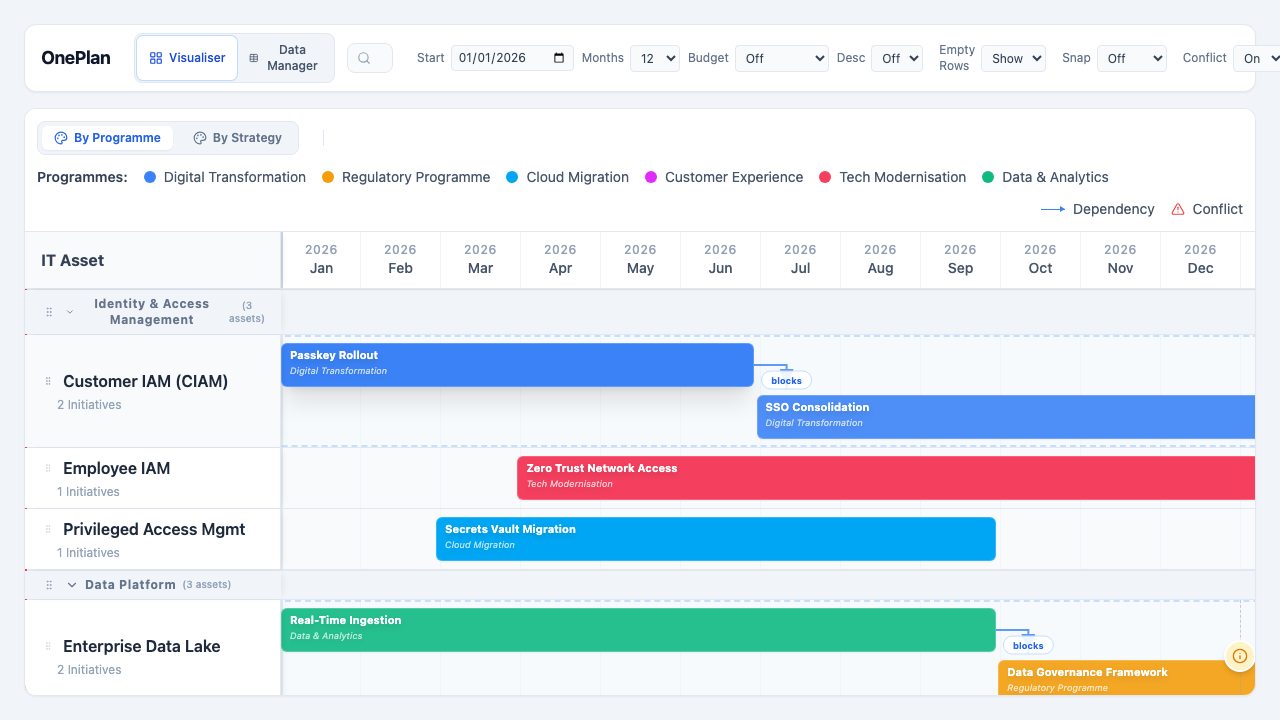
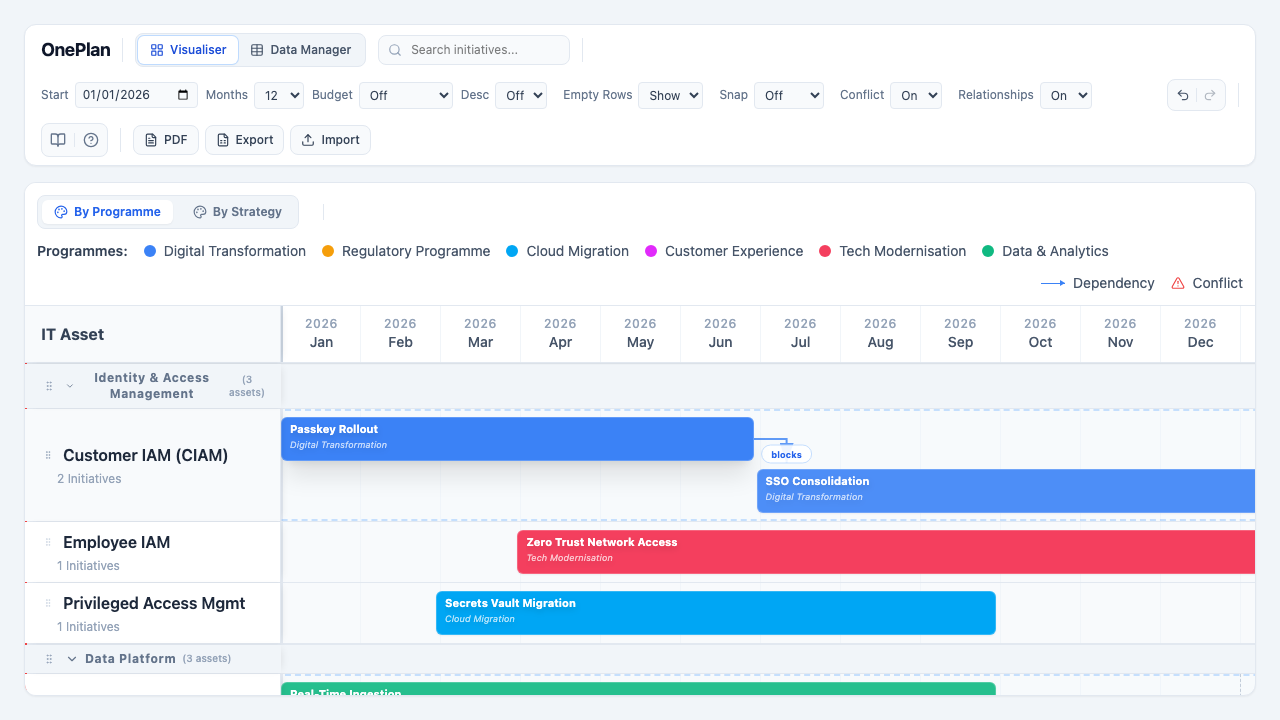
feat: add optional relationship visibility and wrap visualiser menu

diff --git a/src/components/Timeline.tsx b/src/components/Timeline.tsx
@@ -384,7 +384,7 @@ export function Timeline({ assets, initiatives, milestones, programmes, strategi
         e.preventDefault();
 
         // If we moved vertically more than 30px, switch to drawing dependency
-        if (!drawingDependency && Math.abs(deltaY) > 30) {
+        if (settings.showRelationships !== 'off' && !drawingDependency && Math.abs(deltaY) > 30) {
           const sourcePos = initiativePositions.get(moving.id);
           if (sourcePos && containerRef.current) {
             const containerRect = containerRef.current.getBoundingClientRect();
@@ -867,12 +867,14 @@ export function Timeline({ assets, initiatives, milestones, programmes, strategi
         </div>
 
         <div className="ml-auto flex items-center gap-4">
-          <div className="flex items-center gap-2 whitespace-nowrap">
-            <div className="w-6 h-px bg-blue-500 relative">
-              <div className="absolute right-0 top-1/2 -translate-y-1/2 border-y-[3px] border-y-transparent border-l-[5px] border-l-blue-500" />
+          {settings.showRelationships !== 'off' && (
+            <div className="flex items-center gap-2 whitespace-nowrap">
+              <div className="w-6 h-px bg-blue-500 relative">
+                <div className="absolute right-0 top-1/2 -translate-y-1/2 border-y-[3px] border-y-transparent border-l-[5px] border-l-blue-500" />
+              </div>
+              <span className="text-slate-600">Dependency</span>
             </div>
-            <span className="text-slate-600">Dependency</span>
-          </div>
+          )}
           <div className="flex items-center gap-2 whitespace-nowrap">
             <AlertTriangle size={14} className="text-red-500" />
             <span className="text-slate-600">Conflict</span>
@@ -924,7 +926,7 @@ export function Timeline({ assets, initiatives, milestones, programmes, strategi
                   <polygon points="0 0, 10 3.5, 0 7" fill="#3b82f6" />
                 </marker>
               </defs>
-              {dependencies.map(dep => {
+              {settings.showRelationships !== 'off' && dependencies.map(dep => {
                 const source = initiativePositions.get(dep.sourceId);
                 const target = initiativePositions.get(dep.targetId);
                 if (!source || !target) return null;
@@ -1046,7 +1048,7 @@ export function Timeline({ assets, initiatives, milestones, programmes, strategi
               })}
 
               {/* Live drawing arrow */}
-              {drawingDependency && (
+              {settings.showRelationships !== 'off' && drawingDependency && (
                 <path
                   d={`M ${drawingDependency.startX} ${drawingDependency.startY} L ${drawingDependency.currentX} ${drawingDependency.currentY} `}
                   stroke="#3b82f6"

diff --git a/e2e/relationship-visibility.spec.ts b/e2e/relationship-visibility.spec.ts
@@ -1,0 +1,55 @@
+import { test, expect } from '@playwright/test';
+
+test.describe('Relationship Visibility Toggle', () => {
+  test.beforeEach(async ({ page }) => {
+    // Load the app and ensure we are on the visualiser view
+    await page.goto('/');
+    await page.waitForSelector('#timeline-visualiser');
+    // Wait for at least one initiative to be visible to ensure data is loaded
+    await page.waitForSelector('[data-initiative-id]');
+  });
+
+  test('Dependency lines should be hidden when showRelationships is off', async ({ page }) => {
+    // Ensure dependencies are visible by default (or check if they are)
+    const svg = page.locator('[data-testid="dependencies-svg"]');
+    await expect(svg).toBeAttached();
+
+    // Check if at least one dependency line exists initially
+    const initialPaths = svg.locator('path[marker-end="url(#arrowhead)"]');
+    // Wait for the first one to be attached (it might take a moment due to layout effects)
+    await expect(initialPaths.first()).toBeAttached();
+    
+    const initialCount = await initialPaths.count();
+    console.log(`Initial dependency paths: ${initialCount}`);
+    expect(initialCount).toBeGreaterThan(0);
+    
+    // Toggle Relationships to 'off'
+    const relationshipsSelect = page.locator('#showRelationships');
+    await relationshipsSelect.selectOption('off');
+
+    // Verify dependency lines are gone
+    const pathsAfterToggle = svg.locator('path[marker-end="url(#arrowhead)"]');
+    await expect(pathsAfterToggle).toHaveCount(0);
+  });
+
+  test('Dependency lines should be shown when showRelationships is on', async ({ page }) => {
+    const relationshipsSelect = page.locator('#showRelationships');
+    
+    // Toggle to 'off' first
+    await relationshipsSelect.selectOption('off');
+    const svg = page.locator('[data-testid="dependencies-svg"]');
+    // Ensure they are gone
+    await expect(svg.locator('path[marker-end="url(#arrowhead)"]')).toHaveCount(0);
+
+    // Toggle back to 'on'
+    await relationshipsSelect.selectOption('on');
+    
+    // Verify dependency lines are back
+    const pathsAfterToggle = svg.locator('path[marker-end="url(#arrowhead)"]');
+    // Wait for them to reappear
+    await expect(pathsAfterToggle.first()).toBeAttached();
+    
+    const finalCount = await pathsAfterToggle.count();
+    expect(finalCount).toBeGreaterThan(0);
+  });
+});

diff --git a/src/App.tsx b/src/App.tsx
@@ -227,7 +227,7 @@ export default function App() {
 
   return (
     <div className="h-screen w-full bg-slate-100 p-6 flex flex-col">
-      <header className="mb-4 flex-shrink-0 bg-white rounded-xl border border-slate-200 shadow-sm px-4 py-2 flex items-center gap-3">
+      <header className="mb-4 flex-shrink-0 bg-white rounded-xl border border-slate-200 shadow-sm px-4 py-2 flex flex-wrap items-center gap-3">
         {/* Logo */}
         <h1 className="text-lg font-bold text-slate-900 tracking-tight whitespace-nowrap">OnePlan</h1>
 
@@ -278,7 +278,7 @@ export default function App() {
         <div className="w-px h-6 bg-slate-200" />
 
         {/* Inline Timeline Settings */}
-        <div className="flex items-center gap-2">
+        <div className="flex flex-wrap items-center gap-2">
           <label className="flex items-center gap-1.5 text-xs text-slate-500">
             Start
             <input
@@ -390,6 +390,23 @@ export default function App() {
                 handleUpdate({
                   assets, initiatives, milestones, programmes, strategies, dependencies, assetCategories,
                   timelineSettings: { ...timelineSettings, conflictDetection: e.target.value as 'off' | 'on' },
+                });
+              }}
+              className="px-1.5 py-1 bg-slate-50 border border-slate-200 rounded text-xs text-slate-700 focus:outline-none focus:ring-1 focus:ring-blue-500"
+            >
+              <option value="on">On</option>
+              <option value="off">Off</option>
+            </select>
+          </label>
+          <label className="flex items-center gap-1.5 text-xs text-slate-500 ml-2">
+            Relationships
+            <select
+              id="showRelationships"
+              value={timelineSettings.showRelationships || 'on'}
+              onChange={(e) => {
+                handleUpdate({
+                  assets, initiatives, milestones, programmes, strategies, dependencies, assetCategories,
+                  timelineSettings: { ...timelineSettings, showRelationships: e.target.value as 'off' | 'on' },
                 });
               }}
               className="px-1.5 py-1 bg-slate-50 border border-slate-200 rounded text-xs text-slate-700 focus:outline-none focus:ring-1 focus:ring-blue-500"

diff --git a/src/types.ts b/src/types.ts
@@ -67,6 +67,7 @@ export interface TimelineSettings {
   emptyRowDisplay: 'show' | 'hide';
   snapToPeriod: 'off' | 'month';
   conflictDetection: 'on' | 'off';
+  showRelationships: 'on' | 'off';
   columnWidths?: Record<string, Record<string, string>>;
   collapsedGroups?: string[];
   hasSeenTutorial?: boolean;

diff --git a/src/demoData.ts b/src/demoData.ts
@@ -8,6 +8,7 @@ export const demoTimelineSettings: TimelineSettings = {
     emptyRowDisplay: 'show',
     snapToPeriod: 'off',
     conflictDetection: 'on',
+    showRelationships: 'on',
     collapsedGroups: [],
 };
 

diff --git a/PLAYWRIGHT_TODO.md b/PLAYWRIGHT_TODO.md
@@ -76,6 +76,7 @@ This document outlines the critical functionality of **OnePlan** that should be 
     - [x] Verify that conflict markers appear behind sticky asset swimlane labels when scrolling.
     - [x] Verify that initiatives do not overlap sticky asset swimlane labels on hover.
     - [x] Verify that conflict detection can be toggled on/off via the header setting.
+    - [x] **Relationship Visibility:** Verify that dependency lines can be toggled on/off via the header setting.
 - [x] **Milestones:** Verify milestones are rendered at the correct horizontal position based on their date.
 
 ## 4. Data Controls (Import/Export)
